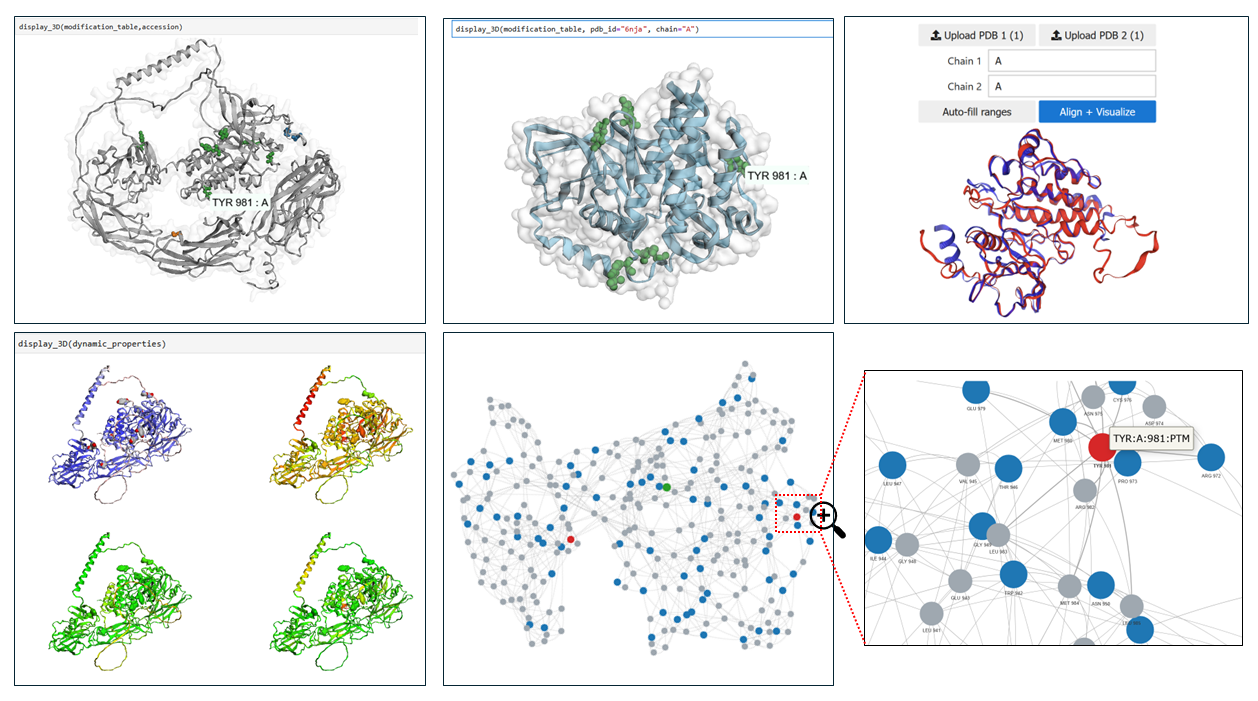
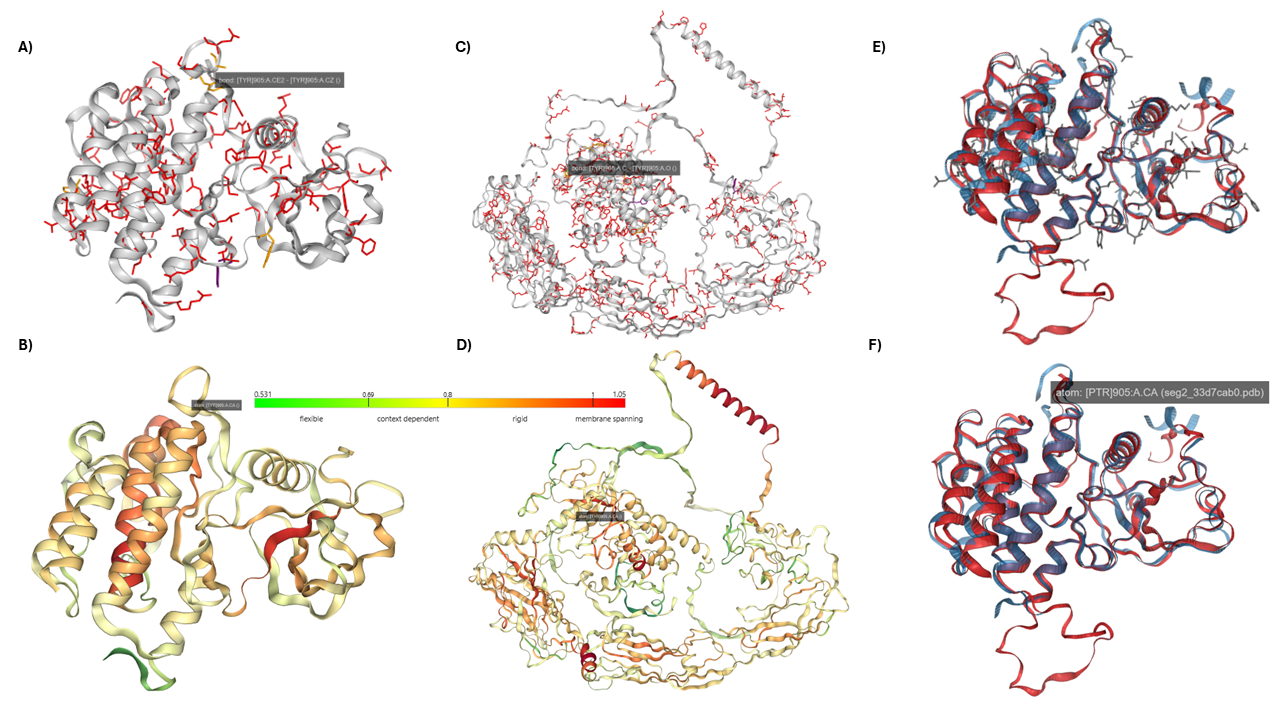
updated README

diff --git a/README.md b/README.md
@@ -121,23 +121,22 @@ This notebook enables interactive visualization of PTMs and disease variants by 
   <img src="data/images/Scop3P_training_Structure_PTM_RIN.png" width="750" alt="Scop3P structural, PTM and RIN overview">
 </p>
 
+<p align="center">
+  <img src="data/images/Scop3P_training_RINs.png" width="750" alt="Scop3P structural, PTM and RIN overview">
+</p>
+
 Click on the next link to open the Jupyter Notebook in an executable environment:
 
 | Notebook (JupyterLab) | Interactive app (Voilà) |
 |----------------------|--------------------------|
-| [![Open Notebook](https://mybinder.org/badge_logo.svg)](https://binder.compomics.com/v2/gh/Bio2Byte/Scop3P-notebooks/HEAD?filepath=notebooks/Scop3P_PTM_structure_viz_voila_app.ipynb) | [![Launch App](https://mybinder.org/badge_logo.svg)](https://binder.compomics.com/v2/gh/Bio2Byte/Scop3P-notebooks/HEAD?urlpath=voila/render/notebooks/Scop3P_PTM_structure_viz_voila_app.ipynb) |
+| [![Open Notebook](https://mybinder.org/badge_logo.svg)](https://mybinder.org/v2/gh/Bio2Byte/Scop3P-notebooks/HEAD?filepath=notebooks/Scop3P_PTM_structure_viz_voila_app.ipynb) | [![Launch App](https://mybinder.org/badge_logo.svg)](https://mybinder.org/v2/gh/Bio2Byte/Scop3P-notebooks/HEAD?urlpath=voila/render/notebooks/Scop3P_PTM_structure_viz_voila_app.ipynb) |
 
-| Notebook / Interactive app |
-|----------------------------|
-| [![Launch Binder](https://mybinder.org/badge_logo.svg)](https://mybinder.org/v2/gh/Bio2Byte/Scop3P-notebooks/HEAD?filepath=notebooks/Scop3P_PTM_structure_viz_voila_app.ipynb) |
-
-> **Interactive app:** Launch the notebook in Binder first, then click the **Voilà Preview** icon in JupyterLab to open the interactive app.
  
-> If there is any launch error then please open the *Notebook (JupyterLab)* link first to authenticate,  
-> then launch the *Interactive app (Voilà)*
+> **Interactive app:** If there is any launch error then please open the *Notebook (JupyterLab)* link first to authenticate,  
+> then launch the *Interactive app (Voilà)* by clicking the voila icon on top right corner.
 
 
-### Biophysical prediction and mutation effects
+### Biophysical prediction and mutation effect analysis
 
 This notebook predicts sequence-based biophysical properties of proteins from a UniProt ID and visualizes them using interactive plots. Users can introduce one or multiple amino-acid mutations, re-compute the predictions on the mutated sequence, and directly compare wild-type and mutant profiles. A final inference step summarizes the impact of mutations based on changes in predicted biophysical properties.Simple notebook fetching modifications for UniProt ID [O00571](https://www.uniprot.org/uniprotkb/O00571/entry) (O00571 · DDX3X_HUMAN), predicting the biophysical properties and visualizing the results using different strategies.
 
@@ -152,12 +151,12 @@ Click on the next link to open the Jupyter Notebook in an executable environment
 
 | Notebook (JupyterLab) | Interactive app (Voilà) |
 |----------------------|--------------------------|
-| [![Open Notebook](https://mybinder.org/badge_logo.svg)](https://binder.compomics.com/v2/gh/Bio2Byte/Scop3P-notebooks/HEAD?filepath=notebooks/Scop3P_b2b_mutation_effect_voila_app.ipynb) | [![Launch App](https://mybinder.org/badge_logo.svg)](https://binder.compomics.com/v2/gh/Bio2Byte/Scop3P-notebooks/HEAD?urlpath=voila/render/notebooks/Scop3P_b2b_mutation_effect_voila_app.ipynb) |
+| [![Open Notebook](https://mybinder.org/badge_logo.svg)](https://mybinder.org/v2/gh/Bio2Byte/Scop3P-notebooks/HEAD?filepath=notebooks/Scop3P_b2b_mutation_effect_voila_app.ipynb) | [![Launch App](https://mybinder.org/badge_logo.svg)](https://mybinder.org/v2/gh/Bio2Byte/Scop3P-notebooks/HEAD?urlpath=voila/render/notebooks/Scop3P_b2b_mutation_effect_voila_app.ipynb) |
 
 
-### Peptide-to-structure mapping
+### Structural localisation of mass spectrometry-derived peptides
 
-Interactive mapping of phosphopeptides—either fetched from Scop3P or uploaded by the user onto AlphaFold structures to visualize peptide coverage and modification sites.
+Interactive mapping of phosphopeptides, either fetched from Scop3P or uploaded by the user onto AlphaFold structures to visualize peptide coverage and modification sites.
 
 #### Mapping phosphopeptides onto protein structures
 
@@ -169,9 +168,41 @@ Click on the next link to open the Jupyter Notebook in an executable environment
 
 | Workflow | Notebook (JupyterLab) | Interactive app (Voilà) |
 |---------|------------------------|--------------------------|
-| Scop3P peptides | [![Open Notebook](https://mybinder.org/badge_logo.svg)](https://binder.compomics.com/v2/gh/Bio2Byte/Scop3P-notebooks/HEAD?filepath=notebooks/Peptide_mapper_scop3p_voila.ipynb) | [![Launch App](https://mybinder.org/badge_logo.svg)](https://binder.compomics.com/v2/gh/Bio2Byte/Scop3P-notebooks/HEAD?urlpath=voila/render/notebooks/Peptide_mapper_scop3p_voila.ipynb) |
-| Upload your own peptides | [![Open Notebook](https://mybinder.org/badge_logo.svg)](https://binder.compomics.com/v2/gh/Bio2Byte/Scop3P-notebooks/HEAD?filepath=notebooks/Peptide_mapper_fileupload_voila.ipynb) | [![Launch App](https://mybinder.org/badge_logo.svg)](https://binder.compomics.com/v2/gh/Bio2Byte/Scop3P-notebooks/HEAD?urlpath=voila/render/notebooks/Peptide_mapper_fileupload_voila.ipynb) |
+| Scop3P peptides | [![Open Notebook](https://mybinder.org/badge_logo.svg)](https://mybinder.org/v2/gh/Bio2Byte/Scop3P-notebooks/HEAD?filepath=notebooks/Peptide_mapper_scop3p_voila.ipynb) | [![Launch App](https://mybinder.org/badge_logo.svg)](https://mybinder.org/v2/gh/Bio2Byte/Scop3P-notebooks/HEAD?urlpath=voila/render/notebooks/Peptide_mapper_scop3p_voila.ipynb) |
+| Upload your own peptides | [![Open Notebook](https://mybinder.org/badge_logo.svg)](https://mybinder.org/v2/gh/Bio2Byte/Scop3P-notebooks/HEAD?filepath=notebooks/Peptide_mapper_fileupload_voila.ipynb) | [![Launch App](https://mybinder.org/badge_logo.svg)](https://mybinder.org/v2/gh/Bio2Byte/Scop3P-notebooks/HEAD?urlpath=voila/render/notebooks/Peptide_mapper_fileupload_voila.ipynb) |
 
+
+### Residue interaction network analysis and alignment
+
+This notebook generates residue interaction networks (RINs) from experimental structures, AlphaFold models, or user-supplied structures, with PTMs, variants, and biophysical properties mapped onto network nodes. It also compares RINs across structures or proteins to identify conserved, lost, and gained residue contacts and explore network rewiring associated with conformational changes or amino-acid substitutions.
+
+#### Interactive residue interaction network analysis and comparison
+
+<p align="center">
+  <img src="data/images/RINAlign.png" width="750" alt="Residue interaction network analysis and alignment">
+</p>
+
+Click on the next link to open the Jupyter Notebook in an executable environment:
+
+| Notebook (JupyterLab) | Interactive app (Voilà) |
+|----------------------|--------------------------|
+| [![Open Notebook](https://mybinder.org/badge_logo.svg)](https://mybinder.org/v2/gh/Bio2Byte/Scop3P-notebooks/HEAD?filepath=notebooks/RINAlign_align_and compare_networks.ipynb) | [![Launch App](https://mybinder.org/badge_logo.svg)](https://mybinder.org/v2/gh/Bio2Byte/Scop3P-notebooks/HEAD?urlpath=voila/render/notebooks/RINAlign_align_and compare_networks.ipynb) |
+
+### Secondary-structure topology and interactive 3D visualization
+
+This notebook generates two-dimensional secondary-structure topology diagrams from experimental structures or AlphaFold models, with PTMs and disease variants mapped directly onto the corresponding residues. Multiple topology layouts are supported, and the diagram is linked interactively to a 3D structure viewer, allowing topology elements and annotated sites to be explored across both representations.
+
+#### Interactive secondary-structure topology linked to 3D protein structure
+
+<p align="center">
+  <img src="data/images/topology.png" width="750" alt="Secondary-structure topology and interactive 3D visualization">
+</p>
+
+Click on the next link to open the Jupyter Notebook in an executable environment:
+
+| Notebook (JupyterLab) | Interactive app (Voilà) |
+|----------------------|--------------------------|
+| [![Open Notebook](https://mybinder.org/badge_logo.svg)](https://mybinder.org/v2/gh/Bio2Byte/Scop3P-notebooks/HEAD?filepath=notebooks/topology_viewer/topology_viewer.ipynb) | [![Launch App](https://mybinder.org/badge_logo.svg)](https://mybinder.org/v2/gh/Bio2Byte/Scop3P-notebooks/HEAD?urlpath=voila/render/notebooks//topology_viewer/topology_viewer.ipynb) |
 
 ## About
 
